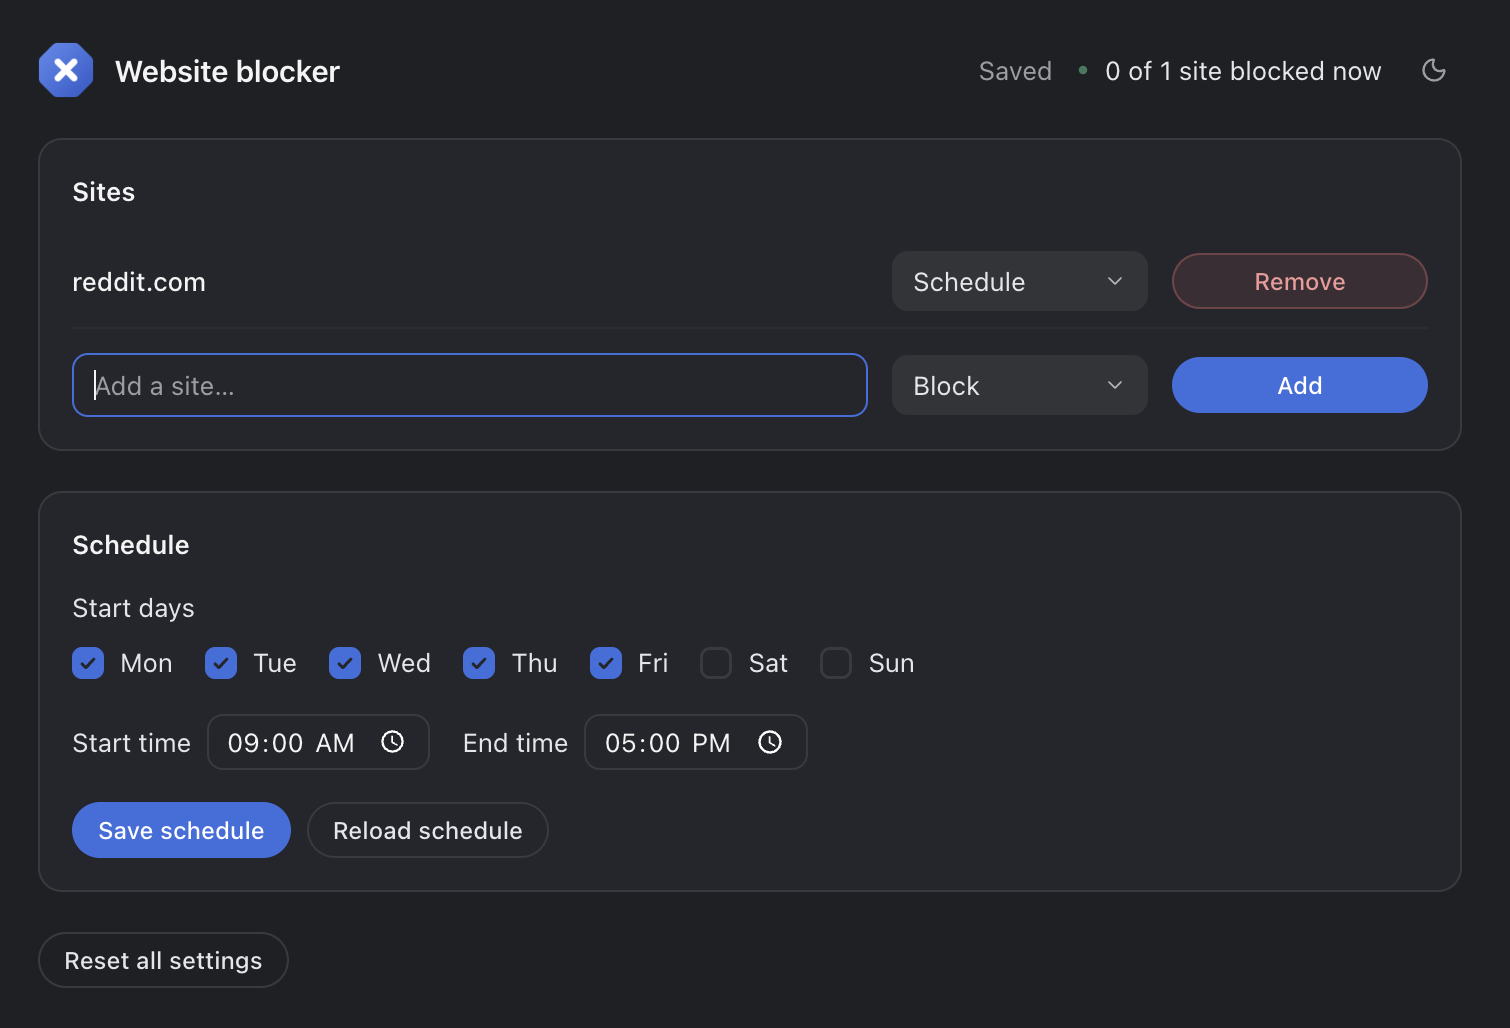
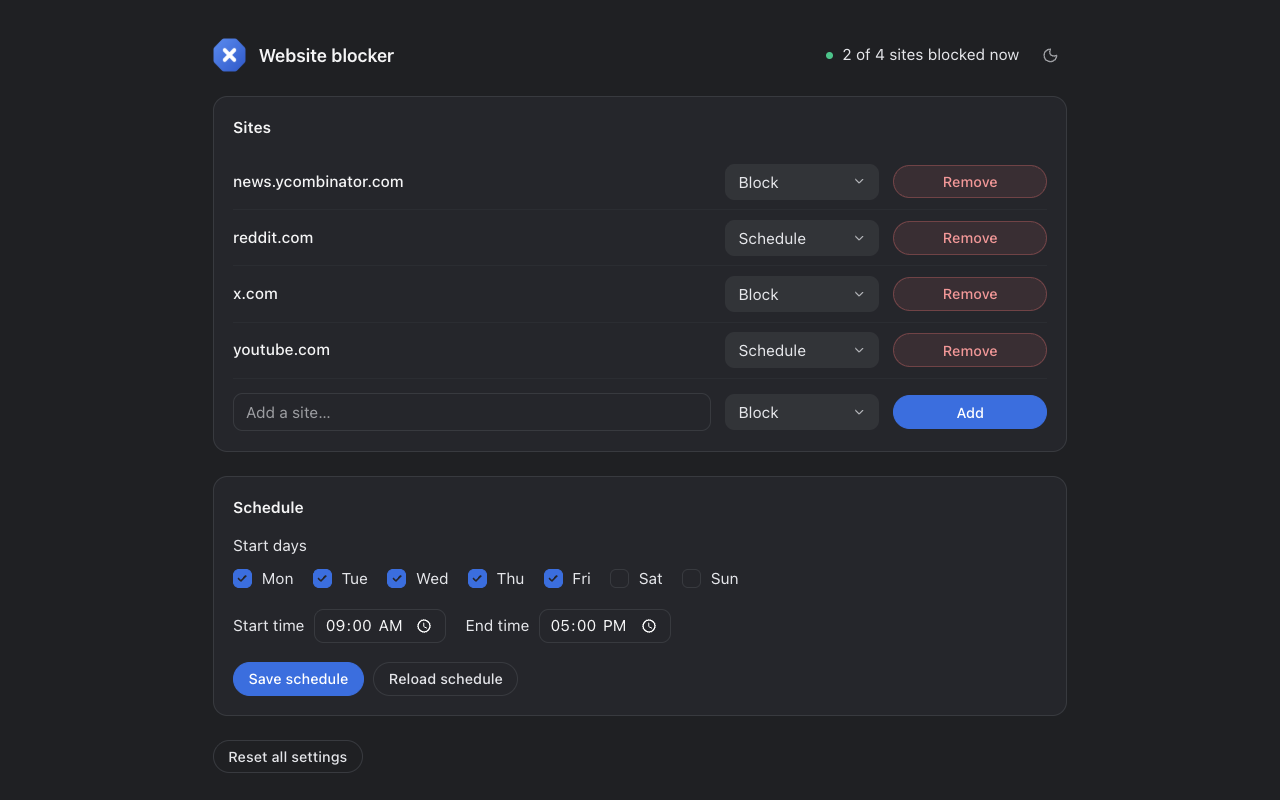
Update

diff --git a/wxt.config.ts b/wxt.config.ts
@@ -9,7 +9,7 @@ export default defineConfig({
   manifest: {
     name: "Website blocker",
     description:
-      "Block distracting websites, always or on a weekly schedule. Local settings. No tracking or sync.",
+      "Block websites permanently or in a schedule. No data collected.",
     minimum_chrome_version: "120",
     permissions: ["declarativeNetRequest", "storage", "alarms", "activeTab"],
     action: { default_title: "Website blocker" },
